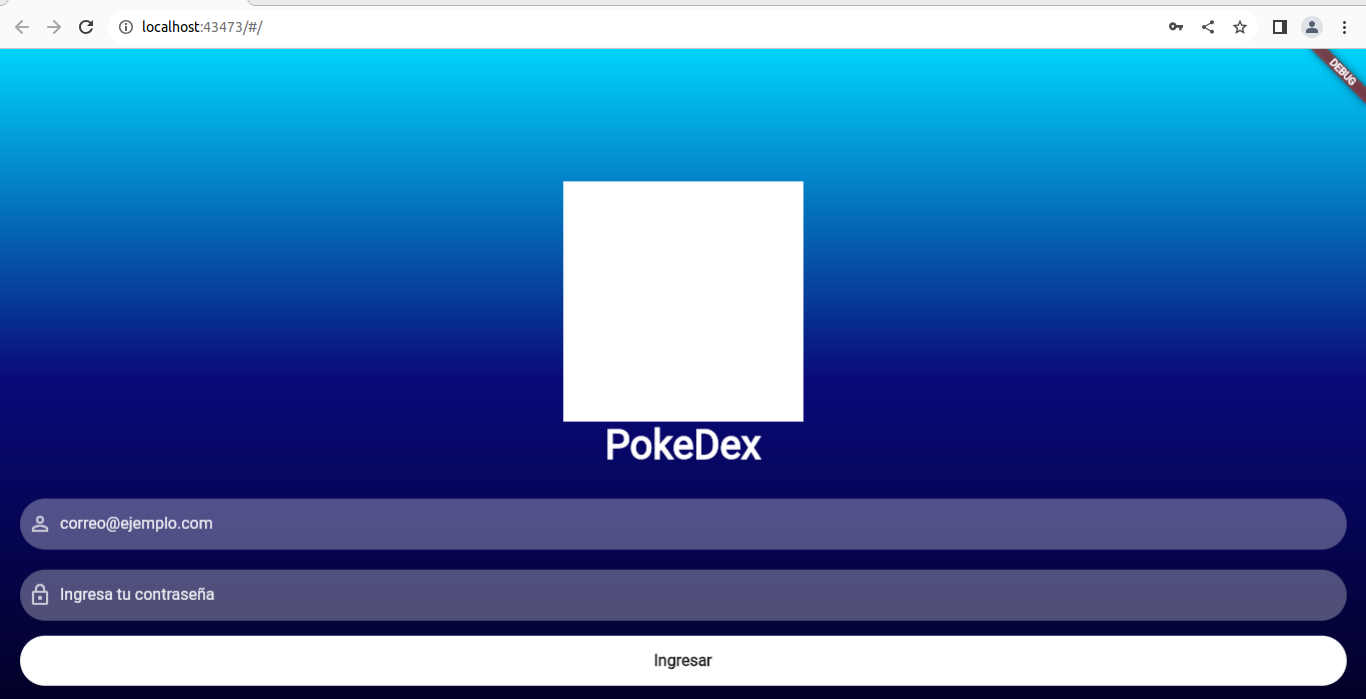
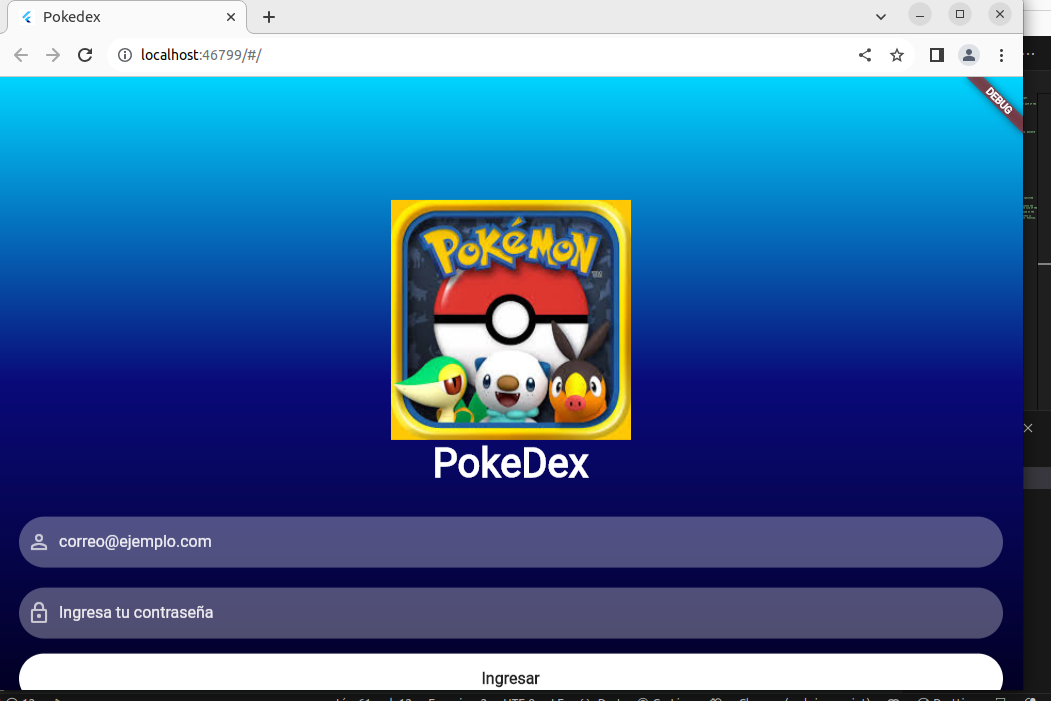
Fix: Image, Add: Documentation

Changed region(s): [[0.0, 0.0, 1.0, 1.0]]

diff --git a/README.md b/README.md
@@ -21,6 +21,9 @@ samples, guidance on mobile development, and a full API reference.
 - Sign In  
 ![SingIn](https://github.com/chrispaz88/pokedex-Flutter/blob/main/assets/images/SigInChris.png)
 
+- Sign In Failed  
+![SingIn](https://github.com/chrispaz88/pokedex-Flutter/blob/main/assets/images/SigInChris.png)
+
 - Categories  
 ![SingIn](https://github.com/chrispaz88/pokedex-Flutter/blob/main/assets/images/VentanaCategorias.png)
 
